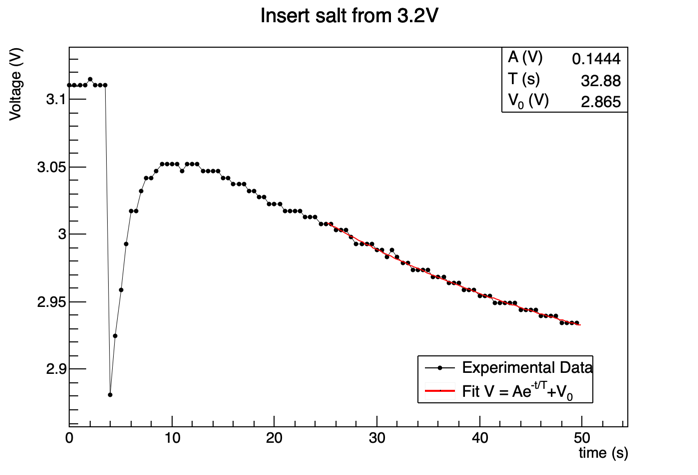
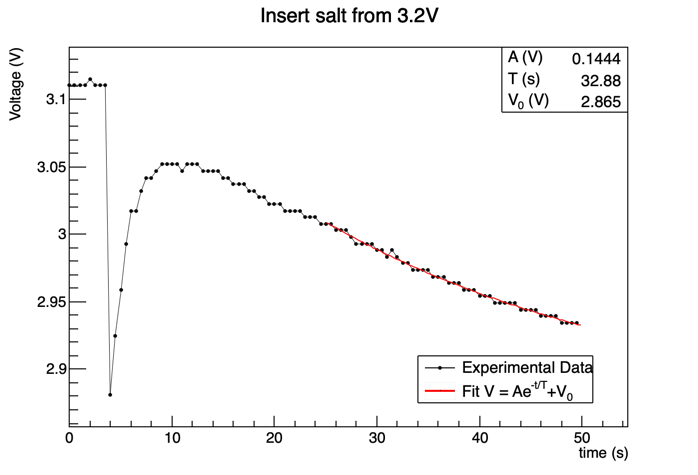
Marker modified to a size of  0.4

diff --git a/Graph/Analysis.C b/Graph/Analysis.C
@@ -35,7 +35,7 @@ void Analysis(TString path = "Insert_tap_2.csv")
     g1->SetTitle("Insert salt from 3.2V;time (s);Voltage (V)");
     g1->SetMarkerStyle(8);
     g1->SetMarkerColor(kBlack);
-    g1->SetMarkerSize(.7);
+    g1->SetMarkerSize(.4);
     g1->SetLineStyle(1);
     g1->SetLineWidth(1.);
 
@@ -61,7 +61,7 @@ void Analysis(TString path = "Insert_tap_2.csv")
     g2->SetTitle("Insert tap 1;time (s);Voltage (V)");
     g2->SetMarkerStyle(8);
     g2->SetMarkerColor(kBlack);
-    g2->SetMarkerSize(.7);
+    g2->SetMarkerSize(.4);
     g2->SetLineStyle(1);
     g2->SetLineWidth(1.);
 
@@ -93,7 +93,7 @@ void Analysis(TString path = "Insert_tap_2.csv")
     g3->SetTitle("Tap water insertion, V_{low} = 2.1 V; time (s); Voltage (V)");
     g3->SetMarkerStyle(8);
     g3->SetMarkerColor(kBlack);
-    g3->SetMarkerSize(.7);
+    g3->SetMarkerSize(.4);
     g3->SetLineStyle(1);
     g3->SetLineWidth(1.);
 
@@ -126,7 +126,7 @@ void Analysis(TString path = "Insert_tap_2.csv")
     g4->SetTitle("Insert salt 3V;time (s);Voltage (V)");
     g4->SetMarkerStyle(8);
     g4->SetMarkerColor(kBlack);
-    g4->SetMarkerSize(.7);
+    g4->SetMarkerSize(.4);
     g4->SetLineStyle(1);
     g4->SetLineWidth(1.);
 
@@ -151,7 +151,7 @@ void Analysis(TString path = "Insert_tap_2.csv")
     g5->SetTitle("Insert Salt 2.86V;time (s);Voltage (V)");
     g5->SetMarkerStyle(8);
     g5->SetMarkerColor(kBlack);
-    g5->SetMarkerSize(.7);
+    g5->SetMarkerSize(.4);
     g5->SetLineStyle(1);
     g5->SetLineWidth(1.);
 
